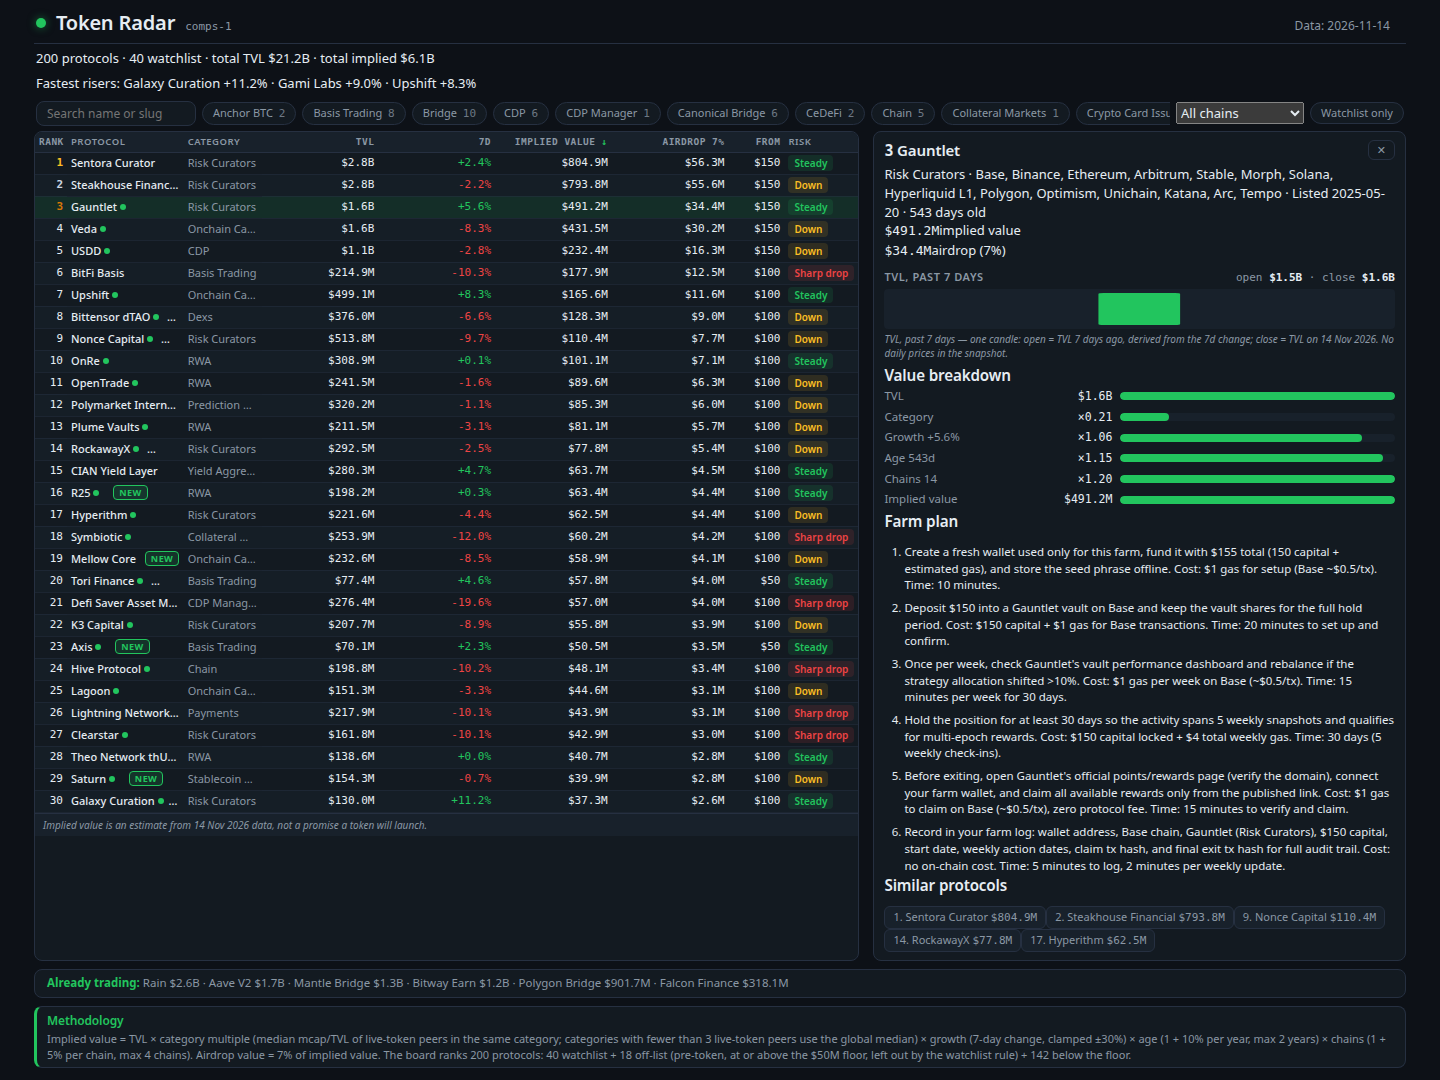
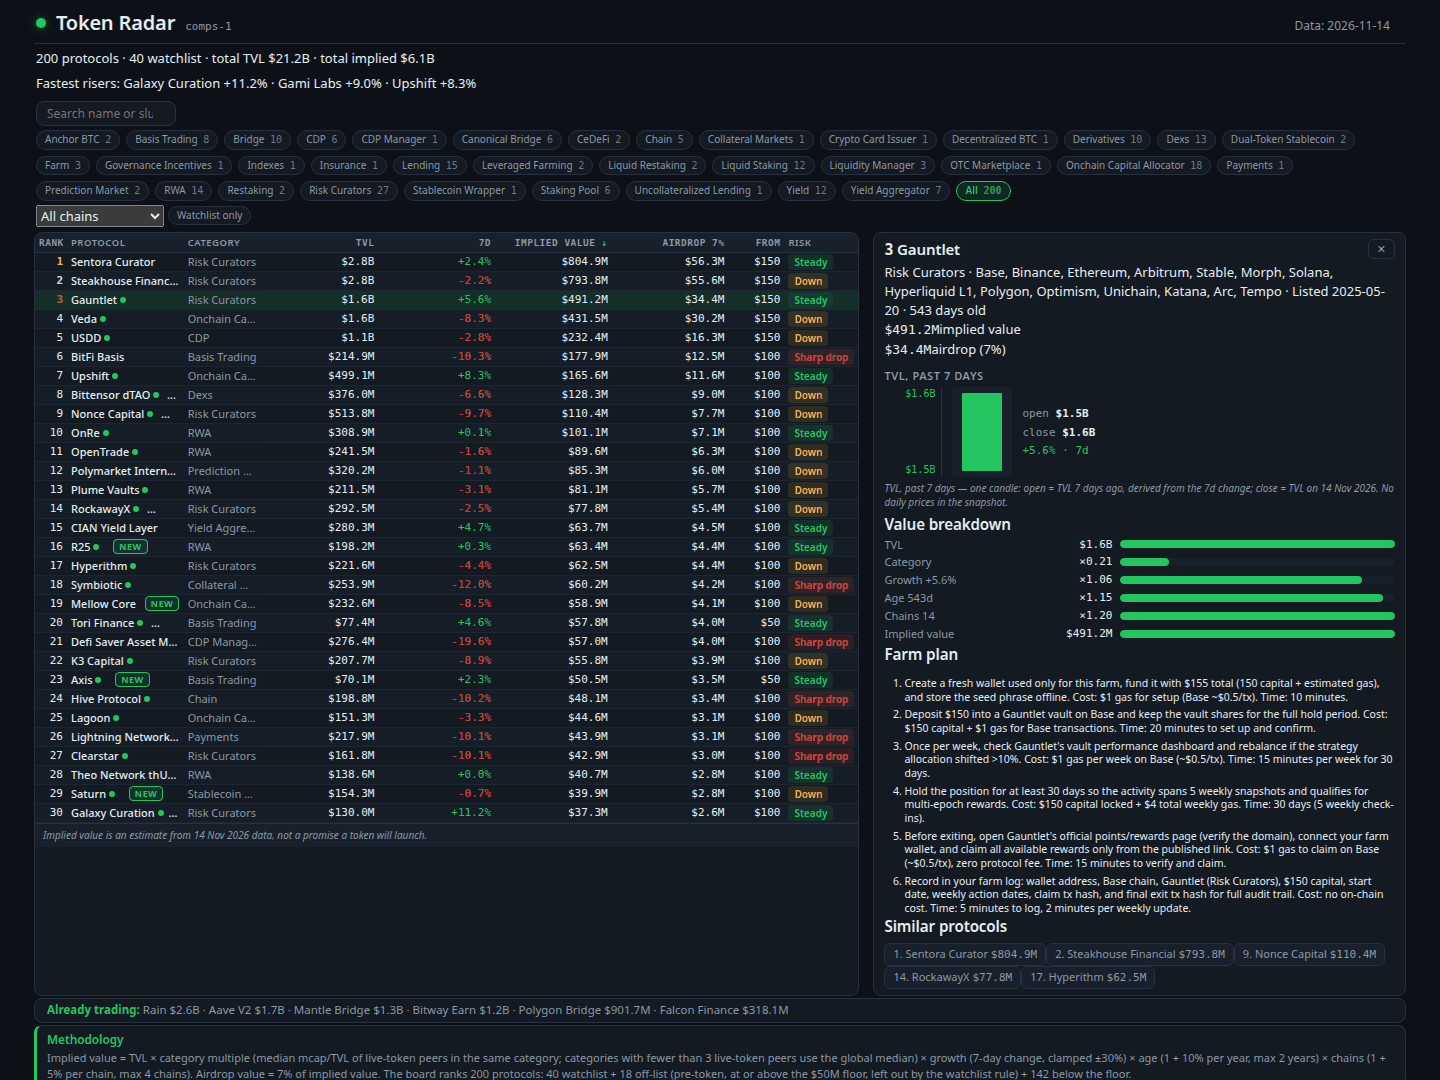
Fase 6: hero penuh + tab live 7 kolom + candle lengkap + dossier di bawah cap

Changed region(s): [[0.0, 0.0917, 0.9688, 1.0]]

diff --git a/dashboard/app.css b/dashboard/app.css
@@ -187,7 +187,12 @@ button { cursor: pointer; }
 .tvl-candle-top .tvl-title { color: var(--muted); font-size: 11px; font-weight: 600; text-transform: uppercase; letter-spacing: 0.05em; }
 .tvl-candle-nums { font-family: var(--font-num); font-size: 11px; color: var(--muted); }
 .tvl-candle-nums b { color: var(--ink); font-weight: 600; }
-.tvl-svg { display: block; width: 100%; height: 40px; margin: 3px 0; background: var(--surface2); border-radius: 4px; }
+.tvl-svg { flex: none; width: 60px; height: 90px; background: var(--surface2); border-radius: 4px; }
+.tvl-chart { display: flex; align-items: center; gap: 10px; margin: 4px 0; }
+.tvl-scale { position: relative; flex: none; width: 58px; height: 90px; border-right: 1px solid var(--border); }
+.tvl-scale-val { position: absolute; right: 6px; font-family: var(--font-num); font-size: 10px; line-height: 14px; white-space: nowrap; }
+.tvl-labels { display: flex; flex-direction: column; gap: 3px; font-family: var(--font-num); font-size: 11px; color: var(--muted); }
+.tvl-labels b { color: var(--ink); font-weight: 600; }
 .tvl-candle-body.up { fill: var(--accent); }
 .tvl-candle-body.down { fill: var(--negative); }
 .tvl-candle-note { color: var(--muted); font-size: 10px; line-height: 1.4; font-style: italic; }
@@ -261,20 +266,21 @@ button { cursor: pointer; }
 .hero #risers { grid-column: 1 / -1; grid-row: 3; }
 .hero #tabs, .hero #howto { display: none; }
 .hero #filters {
-  display: flex; flex-wrap: nowrap; align-items: center; gap: 6px;
+  display: flex; flex-wrap: wrap; align-items: center; gap: 4px;
   grid-column: 1 / -1; grid-row: 4; padding: 3px 2px 5px;
-  min-width: 0; overflow: hidden;
+  min-width: 0;
 }
-.hero #filters .chips { display: flex; flex-wrap: nowrap; gap: 6px; flex: 1 1 auto; min-width: 0; overflow: hidden; }
+.hero #filters .chip { font-size: 10px; padding: 1px 8px; }
+.hero #filters .chips { display: flex; flex-wrap: wrap; gap: 6px; flex: 1 1 auto; min-width: 0; }
 .hero #filters input[type="search"], .hero #filters input[type="text"], .hero #filters select, .hero #filters > .chip { flex: none; }
-.hero #filters input[type="search"], .hero #filters input[type="text"] { width: 160px; }
+.hero #filters input[type="search"], .hero #filters input[type="text"] { width: 140px; }
 .hero .board-wrap { grid-column: 1; grid-row: 5; }
 .hero #detail { grid-column: 2; grid-row: 5; margin-top: 0; }
-.hero #live { grid-column: 1 / -1; grid-row: 6; margin-top: 8px; padding: 5px 12px; font-size: 11.5px; color: var(--muted); }
+.hero #live { grid-column: 1 / -1; grid-row: 6; margin-top: 2px; padding: 3px 12px; font-size: 11.5px; color: var(--muted); }
 .hero #live strong { color: var(--accent); }
 .hero #method {
   display: block; grid-column: 1 / -1; grid-row: 7;
-  margin-top: 8px; padding: 5px 10px;
+  margin-top: 2px; padding: 5px 10px;
 }
 .hero #method h2 { font-size: 12px; margin-bottom: 2px; }
 .hero #method .cat-multiples, .hero #method .method-honest { display: none; }
@@ -286,7 +292,7 @@ button { cursor: pointer; }
 .hero .board { font-size: 11px; table-layout: fixed; width: 100%; }
 .hero .board th, .hero .board td { padding: 1px 4px; }
 .hero .board thead th { font-size: 9.5px; padding: 3px 4px; }
-.hero .board tbody tr { height: 22px; }
+.hero .board tbody tr { height: 18px; }
 .hero .board td.name { max-width: 150px; }
 .hero .board td.cat { max-width: 74px; }
 .hero .board th:nth-child(1), .hero .board td:nth-child(1) { width: 32px; }
@@ -294,10 +300,13 @@ button { cursor: pointer; }
 .hero .board th:nth-child(9), .hero .board td:nth-child(9) { width: 56px; }
 .hero .board th:nth-child(10), .hero .board td:nth-child(10) { width: 74px; }
 .hero .honest { padding: 4px 8px; font-size: 10px; }
-.hero .detail { padding: 8px 10px; }
+.hero .detail { padding: 6px 10px; }
 .hero .detail h2 { font-size: 15px; }
-.hero .detail .steps li { font-size: 11.5px; }
-.hero .detail .breakdown-row { font-size: 11.5px; }
+.hero .detail .steps li { font-size: 10.5px; line-height: 1.3; }
+.hero .detail .steps ol { gap: 4px; }
+.hero .detail .breakdown-row { font-size: 11px; }
+.hero .detail .breakdown-row { padding: 1px 0; }
+.hero .detail .peers { margin-top: 6px; }
 
 /* Value-breakdown bars (were invisible: no track/fill styling). */
 .breakdown-row .br-bar { height: 8px; background: var(--surface2); border-radius: 4px; overflow: hidden; }
@@ -308,11 +317,65 @@ button { cursor: pointer; }
 
 /* Methodology-only view (?view=method): hide the board, show the method box full-width and readable. */
 .method-view .board-wrap, .method-view #tabs, .method-view #howto, .method-view #filters,
-.method-view #detail, .method-view #live { display: none; }
+.method-view #detail { display: none; }
+.method-view #live { display: block; margin-top: 10px; }
 .method-view #method { margin-top: 10px; padding: 12px 16px; }
 .method-view #method p { font-size: 12.5px; }
 .method-view .cat-multiples { margin-top: 10px; }
 .method-view .method .cat-multiples, .method-view .method .method-honest { display: block; }
+
+/* Live-token-only view (?view=live): hide the board, show the live table full-width. */
+.live-view .board-wrap, .live-view #howto, .live-view #filters,
+.live-view #detail { display: none; }
+.live-view #live { margin-top: 10px; }
+.live-view .shell { display: flex; flex-direction: column; }
+.live-view .top { order: 1; }
+.live-view #stats { order: 2; }
+.live-view #risers { order: 3; }
+.live-view #tabs { order: 4; }
+.live-view #live { order: 5; }
+.live-view #method { order: 6; }
+.live-view .live tbody tr { height: 22px; }
+.live-view #method { padding: 6px 12px; }
+
+/* Live view: fixed table so long chain lists cannot push numeric columns off-screen. */
+.live-view .live-table { table-layout: fixed; }
+.live-view .live-table th:nth-child(1), .live-view .live-table td:nth-child(1) { width: 16%; }
+.live-view .live-table th:nth-child(2), .live-view .live-table td:nth-child(2) { width: 13%; }
+.live-view .live-table th:nth-child(3), .live-view .live-table td:nth-child(3) { width: 31%; overflow: hidden; text-overflow: ellipsis; white-space: nowrap; }
+.live-view .live-table th:nth-child(4), .live-view .live-table td:nth-child(4) { width: 10%; }
+.live-view .live-table th:nth-child(5), .live-view .live-table td:nth-child(5) { width: 10%; }
+.live-view .live-table th:nth-child(6), .live-view .live-table td:nth-child(6) { width: 8%; }
+.live-view .live-table th:nth-child(7), .live-view .live-table td:nth-child(7) { width: 12%; }
+/* Live view: methodology box below the live table, multiples reflowed to 3 columns to fill the frame. */
+.live-view #method { display: block; margin-top: 10px; }
+.live-view #method .cat-multiples, .live-view #method .method-honest { display: block; }
+.live-view .multiples tbody { display: flex; flex-wrap: wrap; }
+.live-view .multiples tr { display: contents; }
+.live-view .multiples td { flex: 0 0 24%; line-height: 1.4; }
+
+/* Split view (?view=split&category=...&detail=...): filtered board + detail side by side, like hero. */
+.split-view .shell { max-width: 1400px; display: grid; grid-template-columns: minmax(0, 1.55fr) minmax(0, 1fr); column-gap: 14px; }
+.split-view .top { grid-column: 1 / -1; grid-row: 1; }
+.split-view #stats { grid-column: 1 / -1; grid-row: 2; }
+.split-view #risers { grid-column: 1 / -1; grid-row: 3; }
+.split-view #tabs { grid-column: 1 / -1; grid-row: 4; }
+.split-view #howto { grid-column: 1 / -1; grid-row: 5; }
+.split-view #filters { grid-column: 1 / -1; grid-row: 6; }
+.split-view .board-wrap { grid-column: 1; grid-row: 7; }
+.split-view #detail { grid-column: 2; grid-row: 7 / span 2; margin-top: 0; }
+.split-view #method { grid-column: 1; grid-row: 8; }
+.split-view #live { display: none; }
+.split-view #method .cat-multiples, .split-view #method .method-honest { display: none; }
+.split-view .board { font-size: 11px; }
+.split-view .board tbody tr { height: 22px; }
+.split-view .board th:nth-child(8), .split-view .board td:nth-child(8) { display: none; }
+.split-view .detail { padding: 6px 10px; }
+.split-view .detail .peers { margin-top: 6px; }
+.split-view .detail h2 { font-size: 15px; }
+.split-view .detail .steps li { font-size: 11px; }
+.split-view .detail .steps ol { gap: 4px; }
+.split-view .detail .breakdown-row { font-size: 11px; }
 
 /* Hide the empty detail panel until a row is clicked. */
 .detail:empty { display: none; }

diff --git a/dashboard/detail.js b/dashboard/detail.js
@@ -62,20 +62,32 @@
       var close = r.tvl_usd;
       var hi = Math.max(open, close), lo = Math.min(open, close);
       var up = close >= open;
-      var pad = 4, span = hi - lo;
-      var yOf = function (v) { return span > 0 ? pad + (1 - (v - lo) / span) * (40 - pad * 2) : 20; };
-      var topY = yOf(hi), botY = yOf(lo), bodyH = Math.max(3, botY - topY);
-      if (topY + bodyH > 40 - pad) topY = 40 - pad - bodyH;
+      var pad = 6, span = hi - lo, CH = 90;
+      var yOf = function (v) { return span > 0 ? pad + (1 - (v - lo) / span) * (CH - pad * 2) : CH / 2; };
+      var topY = yOf(hi), botY = yOf(lo), bodyH = Math.max(6, botY - topY);
+      if (topY + bodyH > CH - pad) topY = CH - pad - bodyH;
+      var topVal = up ? close : open, botVal = up ? open : close;
+      var pctTxt = r.change_7d == null ? '' : pct(r.change_7d) + ' \u00b7 7d';
       candleHtml =
         '<div class="tvl-candle">' +
           '<div class="tvl-candle-top">' +
             '<span class="tvl-title">TVL, past 7 days</span>' +
-            '<span class="tvl-candle-nums">open <b>' + money(open) + '</b> · close <b>' + money(close) + '</b></span>' +
           '</div>' +
-          '<svg class="tvl-svg" viewBox="0 0 100 40" preserveAspectRatio="none" role="img" aria-label="TVL candle">' +
-            '<rect class="tvl-candle-body ' + (up ? 'up' : 'down') + '" x="42" y="' + topY.toFixed(2) +
-              '" width="16" height="' + bodyH.toFixed(2) + '" rx="1"></rect>' +
-          '</svg>' +
+          '<div class="tvl-chart">' +
+            '<div class="tvl-scale">' +
+              '<span class="tvl-scale-val ' + (up ? 'up' : 'down') + '" style="top:' + Math.max(0, topY - 7).toFixed(1) + 'px">' + money(topVal) + '</span>' +
+              '<span class="tvl-scale-val ' + (up ? 'up' : 'down') + '" style="top:' + Math.min(76, botY - 7).toFixed(1) + 'px">' + money(botVal) + '</span>' +
+            '</div>' +
+            '<svg class="tvl-svg" viewBox="0 0 60 90" role="img" aria-label="TVL candle">' +
+              '<rect class="tvl-candle-body ' + (up ? 'up' : 'down') + '" x="10" y="' + topY.toFixed(2) +
+                '" width="40" height="' + bodyH.toFixed(2) + '" rx="1"></rect>' +
+            '</svg>' +
+            '<div class="tvl-labels">' +
+              '<span>open <b>' + money(open) + '</b></span>' +
+              '<span>close <b>' + money(close) + '</b></span>' +
+              (pctTxt ? '<span class="' + (up ? 'up' : 'down') + '">' + pctTxt + '</span>' : '') +
+            '</div>' +
+          '</div>' +
           '<p class="tvl-candle-note">TVL, past 7 days — one candle: open = TVL 7 days ago, derived from the 7d change; close = TVL on 14 Nov 2026. No daily prices in the snapshot.</p>' +
         '</div>';
     } else {
@@ -113,8 +125,11 @@
     markSelected(slug);
   };
 
-  window.renderLive = function () {
+  window.renderLive = function (limit) {
     var live = R.live || [];
+    var totalLive = live.length;
+    live = live.slice().sort(function (a, b) { return (b.mcap_usd || 0) - (a.mcap_usd || 0); });
+    if (limit && live.length > limit) live = live.slice(0, limit);
     var body = live.map(function (r) {
       var cls = r.change_7d == null ? 'flat' : r.change_7d > 0 ? 'up' : r.change_7d < 0 ? 'down' : 'flat';
       var ratio = r.tvl_usd && r.mcap_usd ? (r.mcap_usd / r.tvl_usd).toFixed(2) : '—';
@@ -130,6 +145,6 @@
       '<table class="board live-table"><thead><tr>' +
       '<th>Name</th><th>Category</th><th>Chains</th><th class="num">TVL</th>' +
       '<th class="num">Market cap</th><th class="num">7d</th><th class="num">MCap/TVL</th>' +
-      '</tr></thead><tbody>' + body + '</tbody></table>';
+      '</tr></thead><tbody>' + body + '</tbody></table>' + (limit && totalLive > limit ? '<p class="live-note">Showing top ' + limit + ' of ' + totalLive + ' live-token protocols, ranked by market cap.</p>' : '');
   };
 })();

diff --git a/dashboard/app.js b/dashboard/app.js
@@ -9,6 +9,8 @@
   var PARAM_DETAIL = PARAMS.get('detail') || '';
   var DETAIL_VIEW = PARAMS.get('view') === 'detail';
   var METHOD_VIEW = PARAMS.get('view') === 'method';
+  var LIVE_VIEW = PARAMS.get('view') === 'live';
+  var SPLIT_VIEW = PARAMS.get('view') === 'split';
   if (PARAM_CATEGORY) S.category = PARAM_CATEGORY;
 
   function esc(s) {
@@ -246,6 +248,24 @@
   }
   if (METHOD_VIEW) {
     document.body.classList.add('method-view');
+    window.addEventListener('load', function () {
+      if (typeof window.renderLive === 'function') window.renderLive(12);
+      var lv2 = $('live');
+      if (lv2) lv2.hidden = false;
+    });
+  }
+  if (LIVE_VIEW) {
+    document.body.classList.add('live-view');
+    window.addEventListener('load', function () {
+      S.tab = 'live';
+      renderTabs();
+      if (typeof window.renderLive === 'function') window.renderLive(33);
+      var lv = $('live');
+      if (lv) lv.hidden = false;
+    });
+  }
+  if (SPLIT_VIEW) {
+    document.body.classList.add('split-view');
   }
   window.addEventListener('load', function () {
     if (!HERO && PARAM_DETAIL && typeof window.showDetail === 'function') window.showDetail(PARAM_DETAIL);
